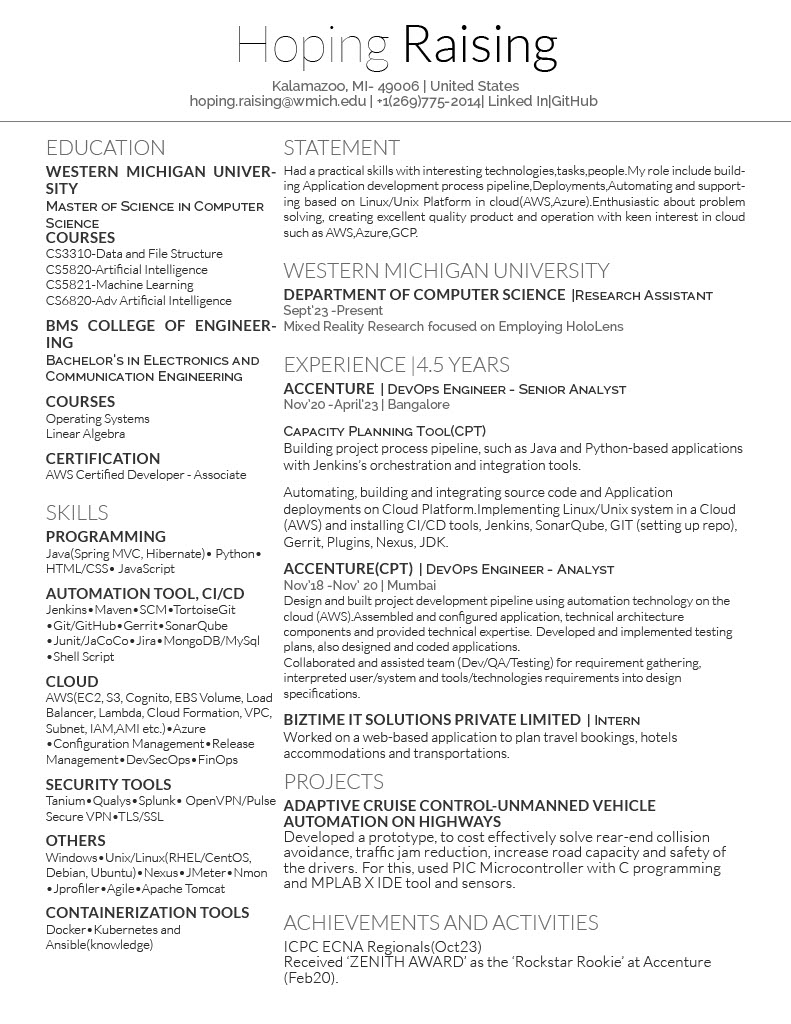
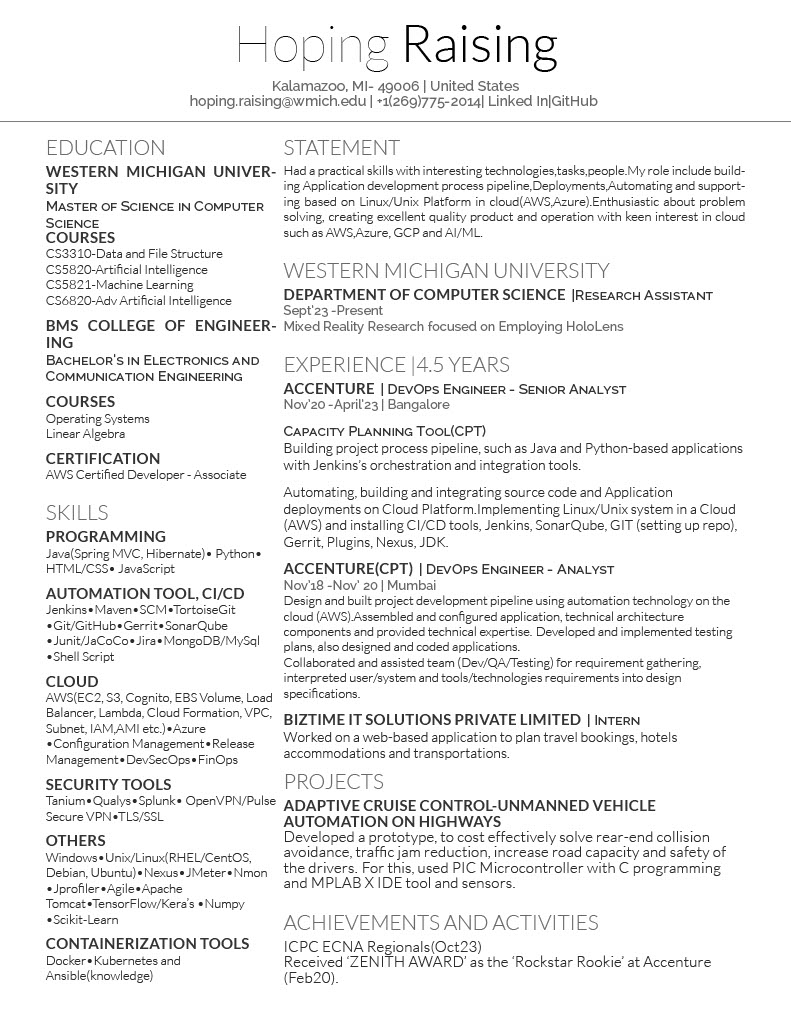
update few changes

Changed region(s): [[0.0607, 0.8438, 0.3034, 0.9688], [0.4855, 0.2188, 0.6068, 0.25]]

diff --git a/index.html b/index.html
@@ -69,7 +69,7 @@
 								<span class="image main"><img src="images/pic03.jpg" alt="" /></span>
 								<p>Had a practical skills with interesting technologies, tasks, people.My role include building Application development process pipeline, Deployments, Automating and supporting
 								   based on Linux/Unix Platform in cloud(AWS,Azure). Enthusiastic about problem solving, creating excellent
-								   quality product and operations with keen interest in cloud such as AWS, Azure, GCP.</p>
+								   quality product and operations with keen interest in cloud such as AWS, Azure, GCP and AI/ML.</p>
 								 <!-- Subsection 1 -->
 								 <div class="subsection">
 									<h2>CERTIFICATION</h2>
@@ -142,6 +142,9 @@
 										<li>Jprofiler</li>
 										<li>Agile</li>
 										<li>Apache Tomcat</li>
+										<li> TensorFlow/Kera’s</li>
+										<li> Numpy</li>
+										<li> Scikit-Learn</li>
 									</ul>
 								</div>
 							</article>
